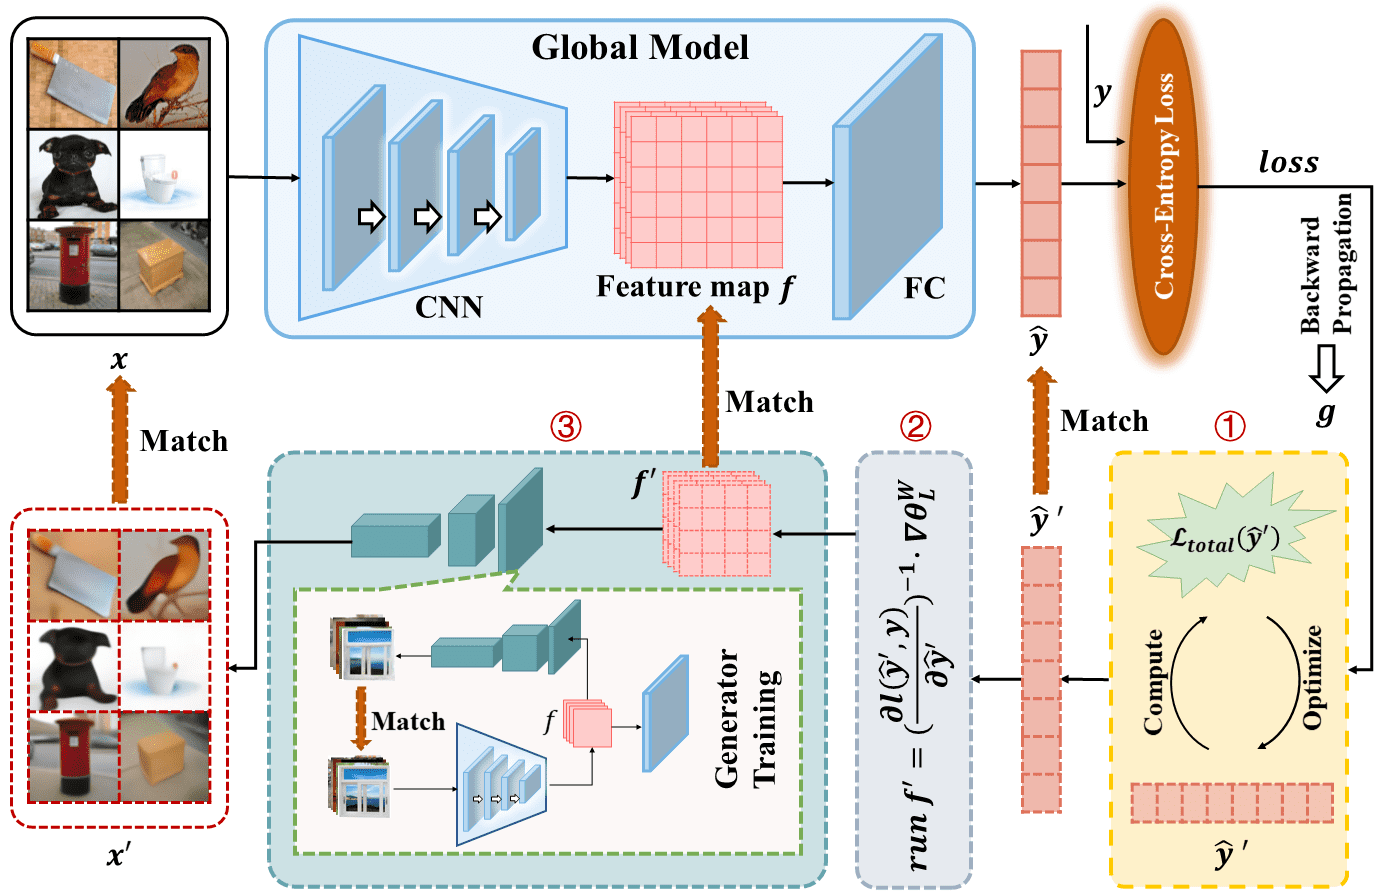
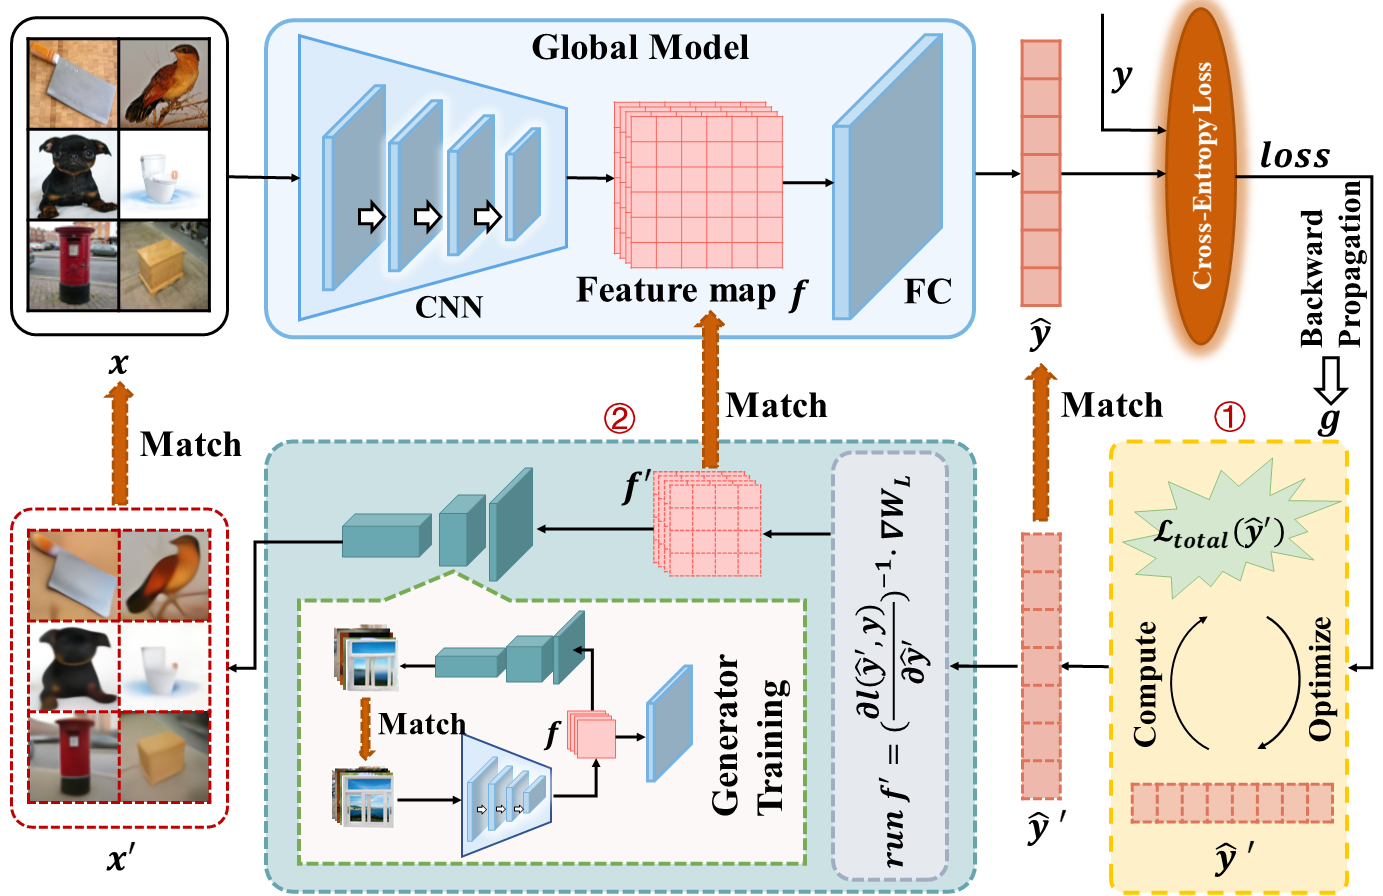
first commit

diff --git a/GLAD_algorithm.py b/GLAD_algorithm.py
@@ -1,0 +1,156 @@
+import torch
+from torch import nn
+
+from defense import defense
+from gen_attack import gen_attack_algorithm
+
+
+def cal_label_dict(label):
+    label_dict = {}
+    for i in label:
+        label_dict[i.item()] = (label==i).sum().item()
+    return label_dict
+
+def pred_loss(grad, label, batchsize, defence_method):
+    bz = len(label)
+    g_b = grad[-1]
+    # offset_b = torch.stack([g for idx, g in enumerate(g_b) if idx not in label], dim=0).mean() * (bz - 1) / bz
+    gb = g_b[label] # - offset_b
+    # noise_norm = torch.tensor(0.01)
+    # gb = gb + noise_norm
+    pred_loss = torch.tensor(0.0)
+    label_dict = cal_label_dict(label)
+    count = 0
+    for i in range(batchsize):
+        # print(torch.log(gb[i] + (label_dict[label[i].item()] / batchsize)))
+        tt = gb[i] + (label_dict[label[i].item()] / batchsize)
+        if tt.item() <= 0:
+            pass
+            # pred_loss = pred_loss - torch.log(gb.mean() + torch.tensor(0.01).to(gb.device))
+        else:
+            count += 1
+            pred_loss = pred_loss - torch.log(tt)
+    return pred_loss / count
+
+def get_w_lambda(ydldy_target_size, label, device):
+    w_lambda = torch.full(ydldy_target_size, 1.0)
+    label_dict = cal_label_dict(label)
+    for i in label_dict:
+        w_lambda[i] = 1.0  # 0.1
+    w_lambda = w_lambda.to(device)
+    return w_lambda
+
+def get_pred(grad, label, model, batchsize, class_num, device, lr, Iteration, attacked_loss, trueloss, defence_method, generator):
+    model.to(device)
+    # init_x = gen_attack_algorithm(grad, label, generator, True, device)
+    # init_output = model(init_x)
+    pred_modelPred = torch.randn((batchsize, class_num)).to(device).requires_grad_(True) # torch.randn((batchsize, class_num)).to(device).requires_grad_(True)
+    criterion = nn.CrossEntropyLoss()
+    optimizer = torch.optim.Adam([pred_modelPred], lr=lr)
+    ExpLR = torch.optim.lr_scheduler.ExponentialLR(optimizer, gamma=0.95)
+    ydldy_target = torch.mm(grad[-2], model.fc.weight.data.transpose(0, -1))
+    if trueloss:
+        pred_modelloss = attacked_loss
+    else:
+        pred_modelloss = pred_loss(grad, label, batchsize, defence_method)
+    pred_modelloss = pred_modelloss.detach().clone()
+    # fu_offset = fuoffset(label, batchsize)
+
+    # w_lambda = torch.full(ydldy_target.size(),1.0)
+    # w_lambda[label] = 1.0 # 0.1
+    # w_lambda = w_lambda.to(device)
+    w_lambda = get_w_lambda(ydldy_target.size(), label, device).detach().clone()
+
+    for iter in range(Iteration):
+        optimizer.zero_grad()
+        predloss = criterion(pred_modelPred, label)
+        predloss.backward(retain_graph=True)
+        dldy = pred_modelPred.grad
+        pred_dldy = dldy.detach().clone()
+        ydldy = torch.mm(dldy.transpose(0, -1), pred_modelPred - model.fc.bias.data)
+        # ydldy = defense("clipping", [ydldy], model, 0, label, 8)[0]
+        w_loss = torch.mul(w_lambda, ydldy - ydldy_target).pow(2).sum()
+        b_loss = (torch.sum(dldy, 0) - grad[-1]).pow(2).sum()
+        loss_loss = (predloss - pred_modelloss).pow(2).sum()
+        # w_loss = torch.abs(torch.mul(w_lambda, ydldy - ydldy_target)).sum()
+        # b_loss = torch.abs(torch.sum(dldy, 0) - grad[-1]).sum()
+        # loss_loss = torch.abs(predloss - pred_modelloss).sum()
+        # loss_loss = ((torch.abs(8.0 - predloss) + torch.abs(predloss - 6.0)) - torch.tensor(2.0)).pow(2)
+        loss = 10000 * w_loss + b_loss + loss_loss
+        loss.backward()
+        optimizer.step()
+        if iter % 1000 == 0:
+            ExpLR.step()
+            print("{}/{} loss: {:.5f}, w_loss: {}, b_loss: {}, loss_loss: {}".format(iter, Iteration, loss.item(), w_loss.item(), b_loss.item(), loss_loss.item())) # b_loss: {b_loss.item()},
+    # pred_dldy = torch.mm(ydldy_target, torch.pinverse(pred_modelPred - model.fc.bias.data)).transpose(0, -1)
+    return pred_modelPred, pred_dldy, pred_modelPred
+
+def adjustdldy(dummy_dl_dy, pred_modelPred, attacked_y_pred):
+    order_idx = []
+    idx_set = set(range(len(dummy_dl_dy)))
+    for i in range(len(attacked_y_pred)):
+        most_match_idx = list(idx_set)[0]
+        min_distance = (pred_modelPred[most_match_idx] - attacked_y_pred[i]).pow(2).sum()
+        for j in idx_set:
+            cur_distance = (pred_modelPred[j] - attacked_y_pred[i]).pow(2).sum()
+            if cur_distance < min_distance:
+                most_match_idx = j
+                min_distance = cur_distance
+        idx_set.remove(most_match_idx)
+        order_idx.append(most_match_idx)
+    return dummy_dl_dy[torch.tensor(order_idx)], pred_modelPred[torch.tensor(order_idx)]
+
+
+def generat_img(generator, fcin, device):
+    if device == "cpu" or device == "cuda:0":
+        device = "cuda:1"
+    generator, fcin = generator.to(device), fcin.to(device)
+    reimgs = []
+    if len(fcin) > 10:
+        for i in range(len(fcin) // 10):
+            slice = generator(fcin[i * 10: i * 10 + 10])
+            reimgs.append(slice.detach().cpu())
+        slice = generator(fcin[i*10 + 10:])
+    else:
+        slice = generator(fcin)
+    reimgs.append(slice.detach().cpu())
+    return torch.cat(reimgs)
+
+def gen_attack_(grad, label, batchsize, model, generator: nn.Module, device, class_num, lr, Iteration, attacked_y_pred, dl_dy, attacked_loss, trueloss: bool, trueoutput: bool, defence_method, d_param):
+    model.to(device)
+    if not trueoutput:
+        pred_modelPred, dldy, pred_modelPred = get_pred(grad, label, model, batchsize, class_num, device, lr, Iteration, attacked_loss, trueloss, defence_method, generator)
+        dldy, pred_modelPred = adjustdldy(dldy, pred_modelPred, attacked_y_pred)
+        predloss = (attacked_y_pred - pred_modelPred).pow(2).sum() / len(label)
+
+        print(f"pred loss: {predloss}")
+        # for t in range(len(label)):
+        #     fig, ax = plt.subplots()  # 创建图实例
+        #     ax_x = np.linspace(0, class_num -1, class_num)  # 创建x的取值范围
+        #     ax.plot(ax_x, np.array(pred_modelPred[t].detach().cpu()), label='dummy')
+        #     ax.plot(ax_x, np.array(attacked_y_pred[t].detach().cpu()), label='true')
+        #     ax.legend()  # 自动检测要在图例中显示的元素，并且显示
+        #     plt.show()
+
+        print(f"dl_dy loss: {torch.abs(dldy - dl_dy).sum()}")
+    else:
+        dldy = dl_dy
+        predloss = 0
+    dl_dy_inv = torch.pinverse(dldy)
+    if defence_method == "clipping":
+        total_norm = torch.tensor(100.5) # torch.norm(torch.stack([torch.norm(g, 2.0).to(device) for g in grad]), 2.0)
+        clip_coef = float(d_param) / (total_norm + 1e-6)
+        clip_coef_clamped = torch.clamp(clip_coef, max=1.0)
+        dw = grad[-2].div(clip_coef_clamped).transpose(0,-1)
+        fcin = torch.mm(dw, dl_dy_inv).transpose(0, -1)
+        # fcin = torch.mm(grad[-2].transpose(0, -1), dl_dy_inv).transpose(0, -1)
+    else:
+        fcin = torch.mm(grad[-2].transpose(0, -1), dl_dy_inv).transpose(0, -1)
+    # weight_inv = torch.pinverse(model.fc.weight.data.transpose(0, -1))
+    # fcin = torch.mm(attacked_y_pred - model.fc.bias.data, weight_inv) # .transpose(0, -1)
+    reimgs = generat_img(generator, fcin, device)
+    return reimgs.to(device), predloss
+    # single_label_imgs = single_label_imgs_find(grad, x, label, model, generator, offset, device)
+    # show_imgs(single_label_imgs.detach().cpu(), x.detach().cpu(), label, save=args.save_rec, dir_path=f"{record_dir}/images/", filename=f"{index}")
+    # conflict_label_imgs = conflict_label_imgs_find(grad, label, model, generator, offset, device, class_num, single_label_imgs, batchsize)
+    # return torch.cat((single_label_imgs, conflict_label_imgs), 0)

diff --git a/iLRG_RGLA.py b/iLRG_RGLA.py
@@ -11,7 +11,7 @@ from defense import gradient_clipping, defense
 from gen_attack import gen_attack_algorithm
 from iLRA import get_true_label
 from modellib import chooseAttackedModel, Generator
-from RGLA_algorithm import gen_attack_, generat_img
+from GLAD_algorithm import gen_attack_, generat_img
 from optim_attack import ig_algorithm, idlg_algorithm
 from optim_attack.dlg import dlg_algorithm
 from optim_attack.ggl_mulbatch import ggl_algorithm
@@ -21,10 +21,10 @@ from dataset import get_dataloader
 
 def parse_args():
     parser = argparse.ArgumentParser()
-    parser.add_argument("--model_weights", help="weights path for generator", default="./savedModel/RGLA_generator_224.pth") # ./record/train_generator/exp_0/weights_6.pth, ./savedModel/gen_weights.pth
+    parser.add_argument("--model_weights", help="weights path for generator", default="./savedModel/GLAD_generator_224.pth") # ./record/train_generator/exp_0/weights_6.pth, ./savedModel/gen_weights.pth
     parser.add_argument("--fgla_modelpath", help="", default="./savedModel/FGLA_generator.pth")
     parser.add_argument("--reconstruct_num", help="number of reconstructed batches", default=1, type=int)
-    parser.add_argument("--algorithm", default="RGLA", choices=["dlg", "ig", "ggl", "fgla", "RGLA"])
+    parser.add_argument("--algorithm", default="GLAD", choices=["dlg", "ig", "ggl", "fgla", "GLAD"])
     parser.add_argument("--dataset", help="dataset used to reconstruct", default="cifar100", choices=["imagenet", "celeba", "cifar100"])
     parser.add_argument("--max_iteration", help="iteration to reconstruct", default=1, type=int)
     parser.add_argument("--reconstructPath", help="experiment name used to create folder", default="./record/reconstruct")
@@ -120,7 +120,7 @@ if __name__ == "__main__":
         ssim = ssim_lossfn(dummy_x, x)
         lpips = lpips_lossfn(dummy_x, x)
         if args.save_rec:
-            if args.algorithm == "RGLA":
+            if args.algorithm == "GLAD":
                 save_history(index, predloss, psnr, ssim, lpips, time.time() - start, f"{record_dir}")
             else:
                 save_history(index, 0, psnr, ssim, lpips, time.time() - start, f"{record_dir}")

diff --git a/attackpixels336.py b/attackpixels336.py
@@ -16,7 +16,7 @@ from torch import nn
 from torch.utils.data import DataLoader, Sampler, Dataset
 from torchvision import transforms, datasets, models
 
-from RGLA_algorithm import gen_attack_
+from GLAD_algorithm import gen_attack_
 from defense import gradient_clipping, defense
 from gen_attack import gen_attack_algorithm
 from modellib import chooseAttackedModel, Generator, Generator336
@@ -29,10 +29,10 @@ from dataset import get_dataloader
 
 def parse_args():
     parser = argparse.ArgumentParser()
-    parser.add_argument("--model_weights", help="weights path for generator", default="./savedModel/RGLA_generator_336.pth") # ./record/train_generator/exp_0/weights_6.pth, ./savedModel/gen_weights.pth
+    parser.add_argument("--model_weights", help="weights path for generator", default="./savedModel/GLAD_generator_336.pth") # ./record/train_generator/exp_0/weights_6.pth, ./savedModel/gen_weights.pth
     parser.add_argument("--fgla_modelpath", help="", default="./savedModel/gen_weights.pth")
     parser.add_argument("--reconstruct_num", help="number of reconstructed batches", default=20, type=int)
-    parser.add_argument("--algorithm", default="RGLA", choices=["dlg", "ig", "ggl", "fgla", "RGLA", "stg"])
+    parser.add_argument("--algorithm", default="GLAD", choices=["dlg", "ig", "ggl", "fgla", "GLAD", "stg"])
     parser.add_argument("--dataset", help="dataset used to reconstruct", default="imagenet", choices=["imagenet", "celeba", "cifar100"])
     parser.add_argument("--max_iteration", help="iteration to reconstruct", default=20000, type=int)
     parser.add_argument("--reconstructPath", help="experiment name used to create folder", default="./record/reconstruct")
@@ -323,7 +323,7 @@ if __name__ == "__main__":
         ssim = ssim_lossfn(dummy_x, x)
         lpips = lpips_lossfn(dummy_x, x)
         if args.save_rec:
-            if args.algorithm == "RGLA":
+            if args.algorithm == "GLAD":
                 save_history(index, predloss, psnr, ssim, lpips, time.time() - start, f"{record_dir}")
             else:
                 save_history(index, 0, psnr, ssim, lpips, time.time() - start, f"{record_dir}")

diff --git a/main.py b/main.py
@@ -8,7 +8,7 @@ import argparse
 from torch import nn
 from torch.utils.data import DataLoader
 
-from RGLA_algorithm import gen_attack_
+from GLAD_algorithm import gen_attack_
 from defense import gradient_clipping, defense
 from gen_attack import gen_attack_algorithm
 from modellib import chooseAttackedModel, Generator
@@ -20,10 +20,10 @@ from dataset import get_dataloader
 
 def parse_args():
     parser = argparse.ArgumentParser()
-    parser.add_argument("--model_weights", help="weights path for generator", default="./savedModel/RGLA_generator_224.pth") # ./record/train_generator/exp_0/weights_6.pth, ./savedModel/gen_weights.pth
+    parser.add_argument("--model_weights", help="weights path for generator", default="./savedModel/GLAD_generator_224.pth") # ./record/train_generator/exp_0/weights_6.pth, ./savedModel/gen_weights.pth
     parser.add_argument("--fgla_modelpath", help="", default="./savedModel/gen_weights.pth")
     parser.add_argument("--reconstruct_num", help="number of reconstructed batches", default=20, type=int)
-    parser.add_argument("--algorithm", default="RGLA", choices=["dlg", "ig", "ggl", "fgla", "RGLA", "stg"])
+    parser.add_argument("--algorithm", default="GLAD", choices=["dlg", "ig", "ggl", "fgla", "GLAD", "stg"])
     parser.add_argument("--dataset", help="dataset used to reconstruct", default="imagenet", choices=["imagenet", "celeba", "cifar100"])
     parser.add_argument("--max_iteration", help="iteration to reconstruct", default=20000, type=int)
     parser.add_argument("--reconstructPath", help="experiment name used to create folder", default="./record/reconstruct")
@@ -121,7 +121,7 @@ if __name__ == "__main__":
         ssim = ssim_lossfn(dummy_x, x)
         lpips = lpips_lossfn(dummy_x, x)
         if args.save_rec:
-            if args.algorithm == "RGLA":
+            if args.algorithm == "GLAD":
                 save_history(index, predloss, psnr, ssim, lpips, time.time() - start, f"{record_dir}")
             else:
                 save_history(index, 0, psnr, ssim, lpips, time.time() - start, f"{record_dir}")

diff --git a/README.md b/README.md
@@ -1,7 +1,7 @@
-# From Gradients to Pixels: A Gradients Inversion Attack by Inverting Cross-Entropy Loss Function
+# Gradient Leakage Attack against Duplicate Labels via Model Output Reconstruction
 ## Abstract
 
-RGLA, a gradient leakage attack (GLA) method, can reconstruct 224 $\times$ 224 pixels private training data of batch size 256 in 30 seconds while considering duplicate labels. RGLA addresses the challenge of high-resolution data and duplicate labels for GLAs, thus push the GLA more realistic. Extensive experiments demonstrate the robustness of RGLA to high resolution, duplicate labels, batch size, relatively strict defense methods, and initialization methods for the dummy model output.
+GLAD, a gradient leakage attack (GLA) method, can reconstruct 224 $\times$ 224 pixels private training data of batch size 256 in 30 seconds while considering duplicate labels. GLAD addresses the challenge of high-resolution data and duplicate labels for GLAs, thus push the GLA more realistic. Extensive experiments demonstrate the state-of-the-art ability and robustness of GLAD to high resolution, duplicate labels, batch size, relatively strict defense methods, and initialization methods for the dummy model output.
 
 
 
@@ -13,10 +13,10 @@ The whole attack process can be composed of three phases:
 - Disaggregate the feature map input into the last fully-connected layer from the averaged gradients by the obtained model output.
 - Generate the private training data by inputting the separated feature map into the pre-trained generator which generates the data according to the feature map.
 
-<img src="./readme_files/overview.png" alt="overview" style="zoom: 25%;" />
+<img src="./readme_files/overview.png" alt="overview" style="zoom: 50%;" />
 
 
- 
+
 ##  The core code of GLAD
 
 ```python
@@ -77,29 +77,23 @@ also, you can train your generator by running TrainGeneratorGtoImg.py
 
 - Comparison with the state-of-the-art methods
 
-<img src="./readme_files/compareexample.png" alt="compareexample" style="zoom: 25%;" />
+<img src="./readme_files/compareexample.png" alt="compareexample" style="zoom: 20%;" />
+
+- Reconstruct the data batch of 336$\times$336 pixels
+
+<img src="./readme_files/pixels336.png" alt="pixels336" style="zoom: 25%;" />
 
 - Reconstruct private training data with batch size of 256.
 
 <img src="./readme_files/256batchsize.png" alt="256batchsize" style="zoom: 25%;" />
 
+- Reconstruct private data from the datasets different from the auxiliary dataset
+
+   <img src=".\readme_files\cifar_celeba.png" alt="cifar_celeba" style="zoom: 40%;" />
+
+  
+
 - Reconstruct private training data against mainstream defense mechanisms.
 
-<img src="./readme_files/readmeimg2.png" alt="readmeimg2" style="zoom: 25%;" />
-
-- Ablation Study
-
-<img src="./readme_files/objective combination.png" alt="objective combination" style="zoom: 25%;" />
-
-- Evaluation of the different initialization methods for the dummy model output
-
-<img src="./readme_files/initial.png" alt="initial" style="zoom: 25%;" />
-
-- Reconstruction by inferred label [Ma K, Sun Y, Cui J, et al. Instance-wise Batch Label Restoration via Gradients in Federated Learning[C]//The Eleventh International Conference on Learning Representations. 2022.]
-
-<img src="./readme_files/inferredlabels.png" alt="inferredlabels" style="zoom: 25%;" />
-
-- Reconstruct the data batch of 336$\times$336 pixels
-
-<img src="./readme_files/pixels336.png" alt="pixels336" style="zoom: 25%;" />
+<img src="./readme_files/readmeimg2.png" alt="readmeimg2" style="zoom: 40%;" />
 
